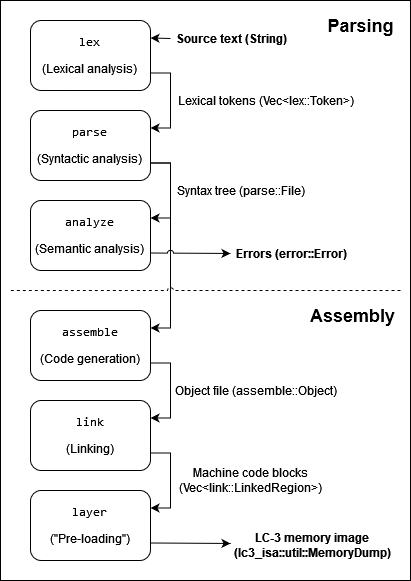
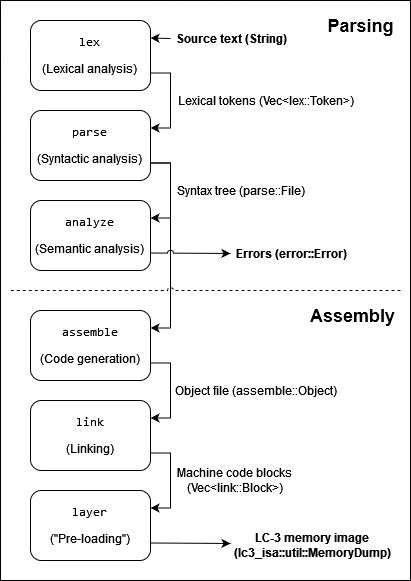
assembler: rename link::LinkedRegion to link::Block

Changed region(s): [[0.4088, 0.8055, 0.7883, 0.8675]]

diff --git a/assembler/src/link.rs b/assembler/src/link.rs
@@ -3,12 +3,12 @@ use lc3_isa::{Addr, Word};
 use crate::assemble::{assemble_instruction, AssemblyResult, Object, ObjectWord, Region, SymbolTable};
 use crate::error::SingleError;
 
-pub struct LinkedRegion {
+pub struct Block {
     pub(crate) origin: Addr,
     pub(crate) words: Vec<Word>,
 }
 
-fn link_region(symbol_table: &SymbolTable, region: Region) -> Result<LinkedRegion, SingleError> {
+fn link_region(symbol_table: &SymbolTable, region: Region) -> Result<Block, SingleError> {
     let mut words = Vec::new();
     let Region { origin, words: region_words, .. } = region;
     let mut location_counter = origin;
@@ -40,16 +40,16 @@ fn link_region(symbol_table: &SymbolTable, region: Region) -> Result<LinkedRegio
                 }
         }
     }
-    Ok(LinkedRegion { origin, words })
+    Ok(Block { origin, words })
 }
 
-pub(crate) fn link_regions(symbol_table: &SymbolTable, regions: Vec<Region>) -> Result<Vec<LinkedRegion>, SingleError> {
+pub(crate) fn link_regions(symbol_table: &SymbolTable, regions: Vec<Region>) -> Result<Vec<Block>, SingleError> {
     regions.into_iter()
         .map(|region| link_region(symbol_table, region))
         .collect()
 }
 
-pub fn link(objects: impl IntoIterator<Item=Object>) -> Result<Vec<LinkedRegion>, SingleError> {
+pub fn link(objects: impl IntoIterator<Item=Object>) -> Result<Vec<Block>, SingleError> {
     let objects = objects.into_iter().collect::<Vec<_>>();
 
     let mut global_symbol_table = HashMap::new();
@@ -59,13 +59,13 @@ pub fn link(objects: impl IntoIterator<Item=Object>) -> Result<Vec<LinkedRegion>
         }
     }
 
-    let linked_regions =
+    let blocks =
         objects.into_iter()
             .map(|object| link_regions(&mut global_symbol_table, object.regions))
-            .collect::<Result<Vec<Vec<LinkedRegion>>, SingleError>>()?
+            .collect::<Result<Vec<Vec<Block>>, SingleError>>()?
             .into_iter()
             .flatten()
             .collect();
 
-    Ok(linked_regions)
+    Ok(blocks)
 }

diff --git a/assembler/src/layer.rs b/assembler/src/layer.rs
@@ -1,10 +1,10 @@
 use lc3_isa::util::MemoryDump;
 use lc3_isa::{ADDR_SPACE_SIZE_IN_WORDS, Word};
 use crate::error::SingleError;
-use crate::link::LinkedRegion;
+use crate::link::Block;
 
-fn layer_region(image: &mut [Word; ADDR_SPACE_SIZE_IN_WORDS], region: LinkedRegion) {
-    let LinkedRegion { origin, words } = region;
+fn layer_block(image: &mut [Word; ADDR_SPACE_SIZE_IN_WORDS], block: Block) {
+    let Block { origin, words } = block;
     let mut addr = origin as usize;
     for word in words {
         image[addr] = word;
@@ -12,23 +12,23 @@ fn layer_region(image: &mut [Word; ADDR_SPACE_SIZE_IN_WORDS], region: LinkedRegi
     }
 }
 
-pub fn layer(regions: impl IntoIterator<Item=LinkedRegion>, layer_onto_os: bool) -> Result<MemoryDump, SingleError> {
-    let regions = regions.into_iter().collect::<Vec<_>>();
+pub fn layer(blocks: impl IntoIterator<Item=Block>, layer_onto_os: bool) -> Result<MemoryDump, SingleError> {
+    let blocks = blocks.into_iter().collect::<Vec<_>>();
 
     let mut image =
         if layer_onto_os {
-            let first_region = regions.get(0).ok_or(SingleError::Layer)?;
+            let first_block = blocks.get(0).ok_or(SingleError::Layer)?;
 
             let mut os = lc3_os::OS_IMAGE.clone().0;
-            os[lc3_os::USER_PROG_START_ADDR as usize] = first_region.origin;
+            os[lc3_os::USER_PROG_START_ADDR as usize] = first_block.origin;
 
             os
         } else {
             [0; ADDR_SPACE_SIZE_IN_WORDS]
         };
 
-    for region in regions {
-        layer_region(&mut image, region);
+    for block in blocks {
+        layer_block(&mut image, block);
     }
 
     Ok(image.into())

diff --git a/assembler/src/lib.rs b/assembler/src/lib.rs
@@ -273,7 +273,7 @@ pub fn assemble_file(input: &PathBuf, leniency: LeniencyLevel, no_os: bool) -> R
 pub fn assemble(id: &SourceId, src: &String, leniency: LeniencyLevel, no_os: bool) -> Result<lc3_isa::util::MemoryDump, error::Error> {
     let file = parse_and_analyze(id, src, leniency)?;
     let assemble::Object { symbol_table, regions } = assemble::assemble(file).map_err(|_| (id.clone(), error::SingleError::Assemble))?;
-    let linked_regions = link::link_regions(&symbol_table, regions).map_err(|e| (id.clone(), e))?;
-    let mem = layer::layer(linked_regions, !no_os).map_err(|e| (id.clone(), e))?;
+    let blocks = link::link_regions(&symbol_table, regions).map_err(|e| (id.clone(), e))?;
+    let mem = layer::layer(blocks, !no_os).map_err(|e| (id.clone(), e))?;
     Ok(mem)
 }
